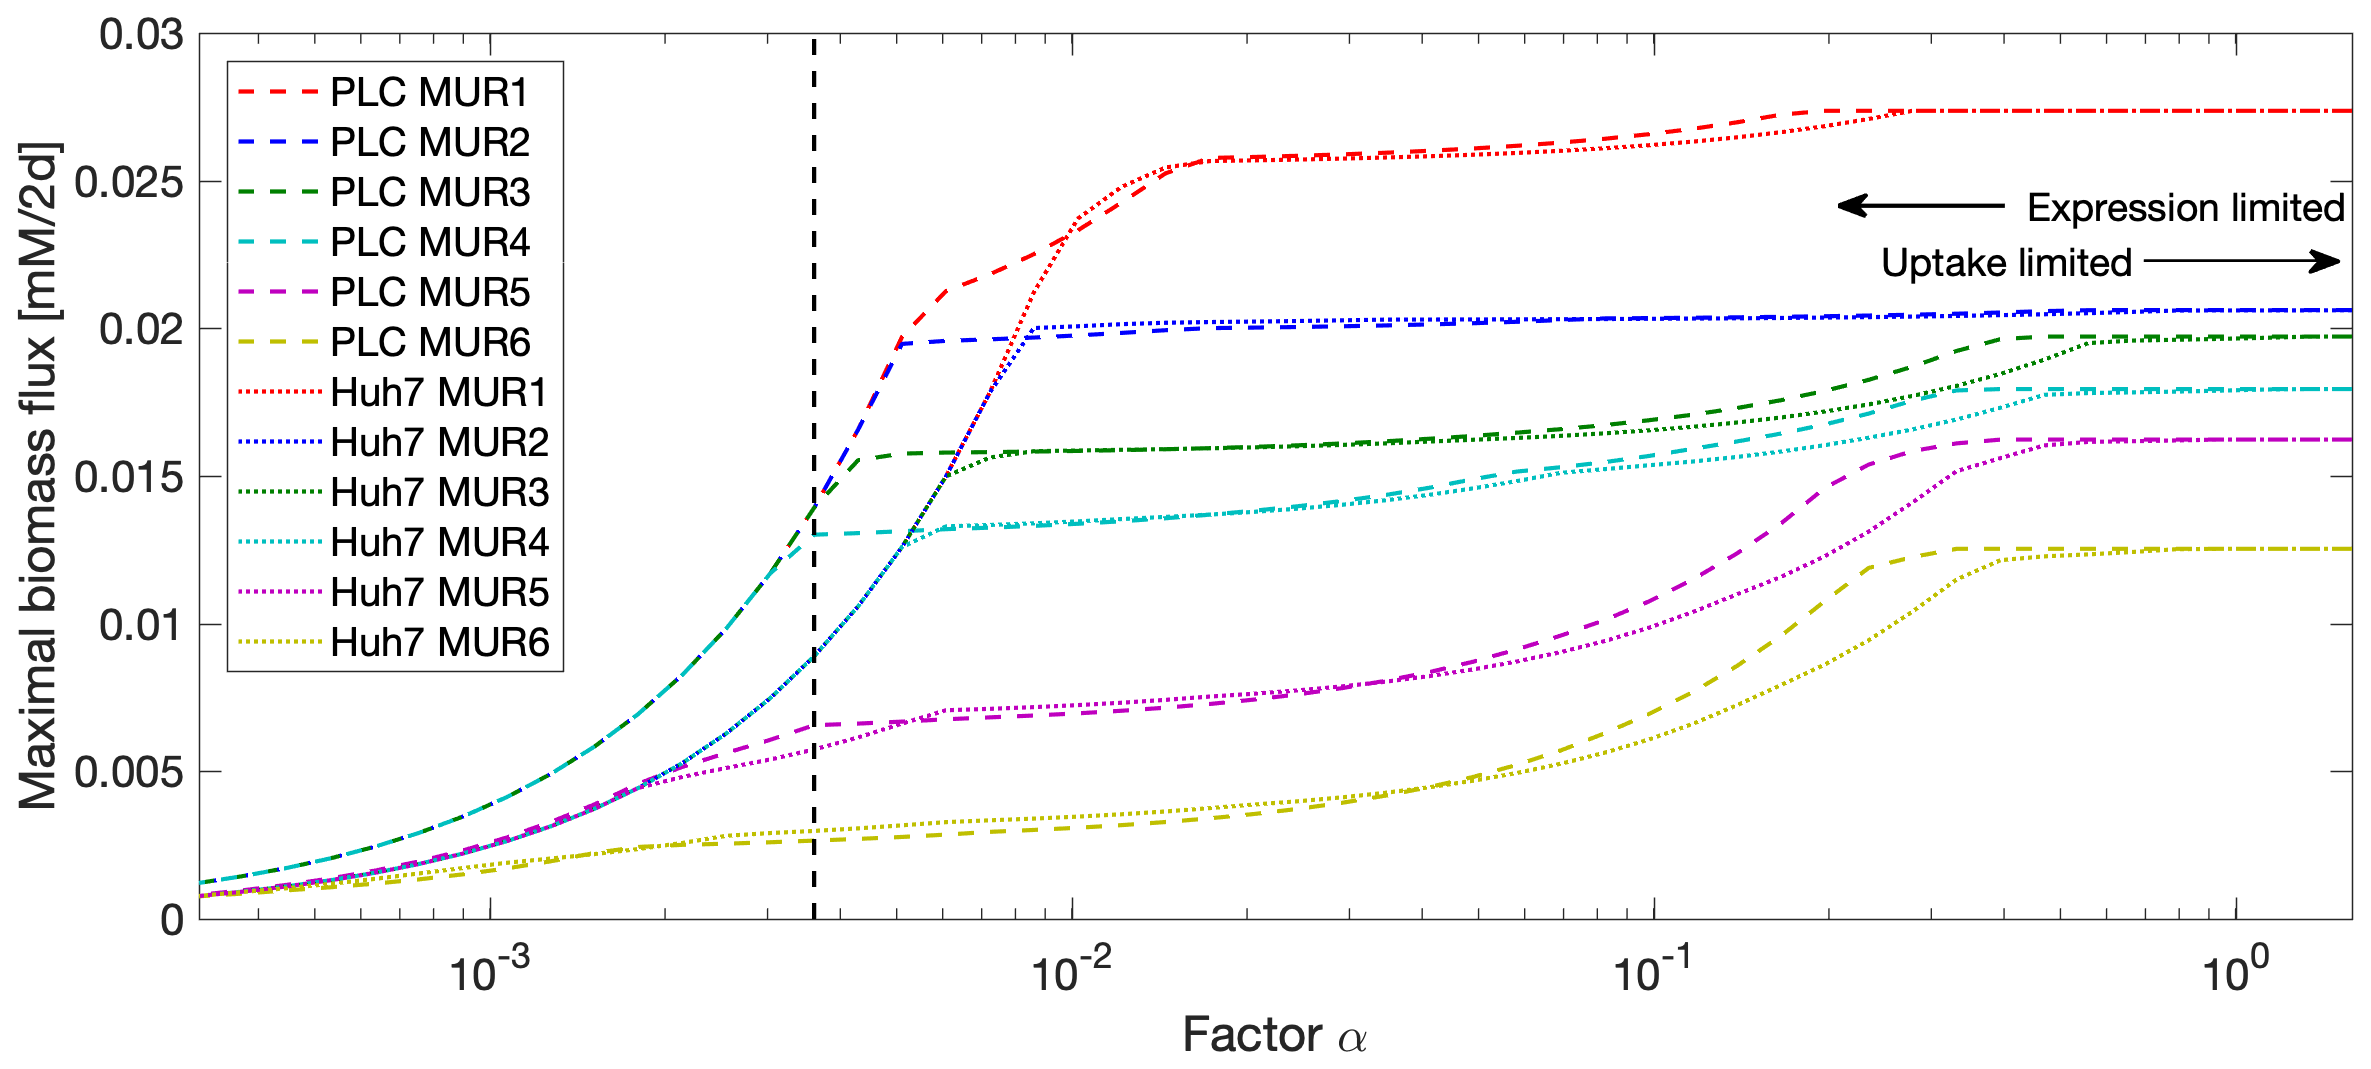
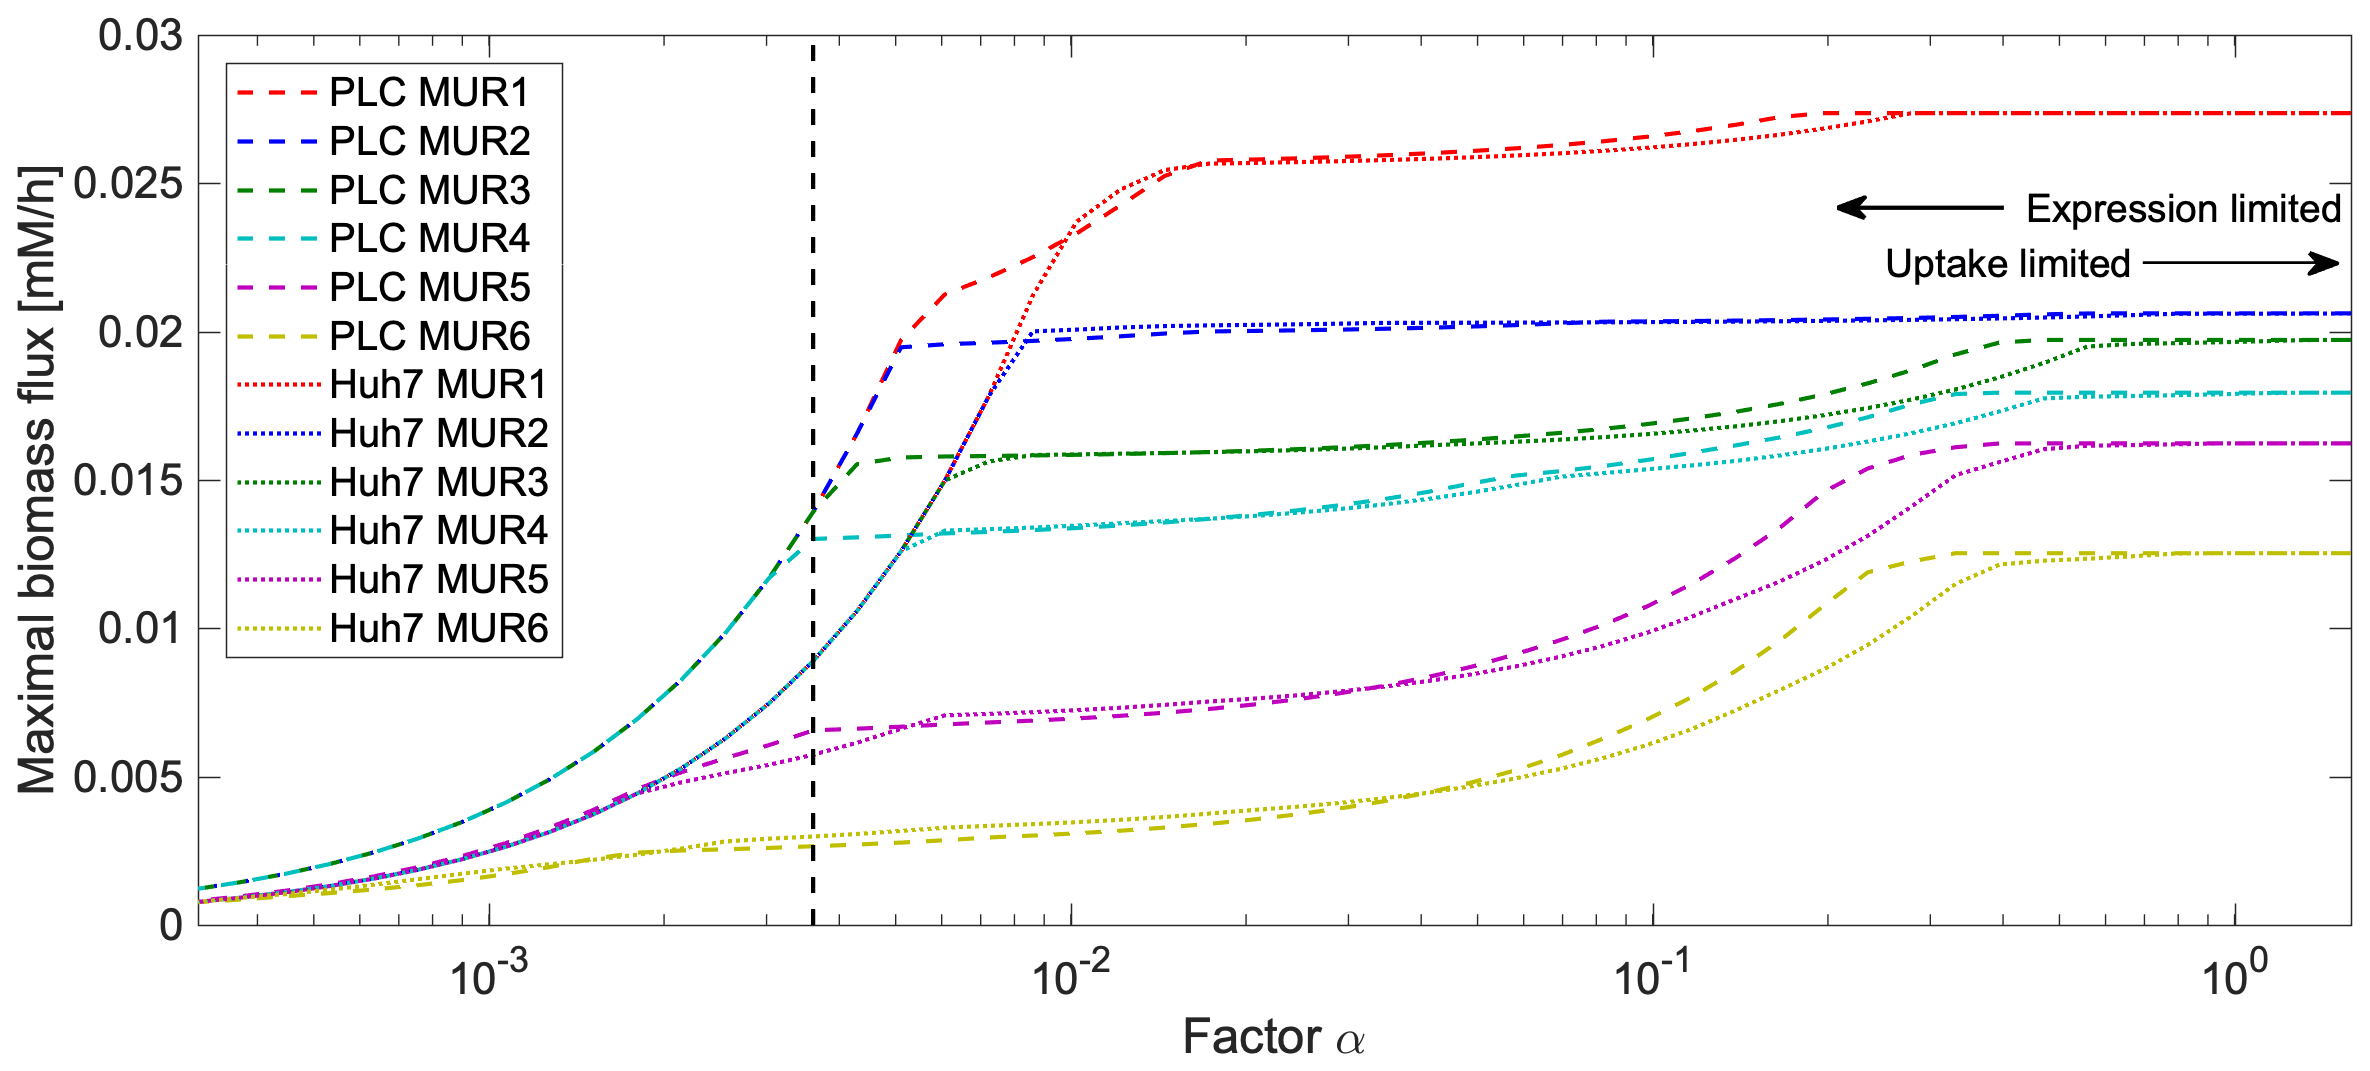
Change units back to per hour and fix FVA plotting axis bug

diff --git a/Code/calculate_RAS_and_constrain_medium_models.m b/Code/calculate_RAS_and_constrain_medium_models.m
@@ -43,8 +43,8 @@ length(find(~isnan(RASmatrix(:,1)))), length(RASmatrix(:,1))
 save('../Data/RAS_scores.mat','RASmatrix','-mat')
 
 %% Plot maximal biomass flux vs. alpha factor on all 12 models
-% which NNR factors to try?
-factor_alpha_values = logspace(0.2,-3.5,50); % logarithmically from 1 to 0.001
+% which scaling factors to try?
+factor_alpha_values = logspace(0.2,-3.5,50); % logarithmically spaced
 final_alpha_index = 36; 
 final_alpha = factor_alpha_values(final_alpha_index);
 
@@ -120,7 +120,7 @@ semilogx(factor_alpha_values,results(7:12,:),':') % Huh7
 %plot(factor_alpha_values, results(1:6,:),'k*') % diagnostic to see where the alpha values fall
 xlim([10^(-3.5),10^(0.2)])
 xlabel('Factor \alpha')
-ylabel('Maximal biomass flux [mM/2d]')
+ylabel('Maximal biomass flux [mM/h]')
 legend('PLC MUR1','PLC MUR2','PLC MUR3','PLC MUR4','PLC MUR5','PLC MUR6',...
         'Huh7 MUR1','Huh7 MUR2','Huh7 MUR3','Huh7 MUR4','Huh7 MUR5','Huh7 MUR6',...
         'Location', 'northwest')
@@ -146,7 +146,7 @@ xticklabels({'MUR1','MUR2','MUR3','MUR4','MUR5','MUR6',...
               'MUR1','MUR2','MUR3','MUR4','MUR5','MUR6'})
 xtickangle(45)
 
-ylabel('Maximal biomass flux [mM/2d]')
+ylabel('Maximal biomass flux [mM/h]')
 ylim([0, 0.015])
 xlim([0.5,12.5])
 
@@ -261,7 +261,7 @@ for i = 1:length(objectives) % loop over models
     xticklabels({'PLC MUR1','PLC MUR2','PLC MUR3','PLC MUR4','PLC MUR5','PLC MUR6',...
                 'Huh7 MUR1','Huh7 MUR2','Huh7 MUR3','Huh7 MUR4','Huh7 MUR5','Huh7 MUR6'})
     xtickangle(45)
-    ylabel('Flux [mM/2d]')
+    ylabel('Flux [mM/h]')
     title(titles(i))
     
     plot_count = plot_count + 1;
@@ -345,7 +345,7 @@ results_max
 
 % plot
 set(0,'DefaultAxesFontName','Arial','DefaultTextFontName','Arial');
-titles = {'ATP synthase (ATPS4mi)','NADH dehydrogenase (NADH2\_u10mi)','ubiquinol-cytochrome c reductase (CYOR\_u10mi)',...
+titles = {'ATP synthase (ATPS4mi)','NADH dehydrogenase (NADH2\_u10mi)','cytochrome c reductase (CYOR\_u10mi)',...
     'cytochrome c oxidase (CYOOm2i)','cytochrome c oxidase (CYOOm3i)','Pyruvate dehydrogenase (PDHm)'};
 figure('pos',[10 10 1400 700],'DefaultAxesFontSize',16)
 plot_count = 1;
@@ -396,7 +396,7 @@ for i = 1:length(objectives) % loop over models
     xticklabels({'PLC MUR1','PLC MUR2','PLC MUR3','PLC MUR4','PLC MUR5','PLC MUR6',...
                 'Huh7 MUR1','Huh7 MUR2','Huh7 MUR3','Huh7 MUR4','Huh7 MUR5','Huh7 MUR6'})
     xtickangle(45)
-    ylabel('Flux [mM/2d]')
+    ylabel('Flux [mM/h]')
     title(titles(i))
     
     plot_count = plot_count + 1;
